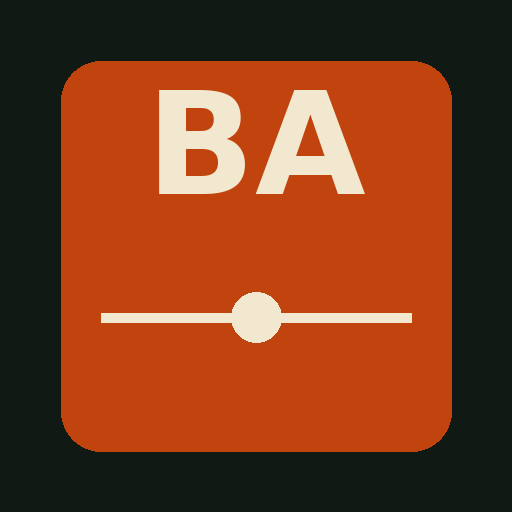
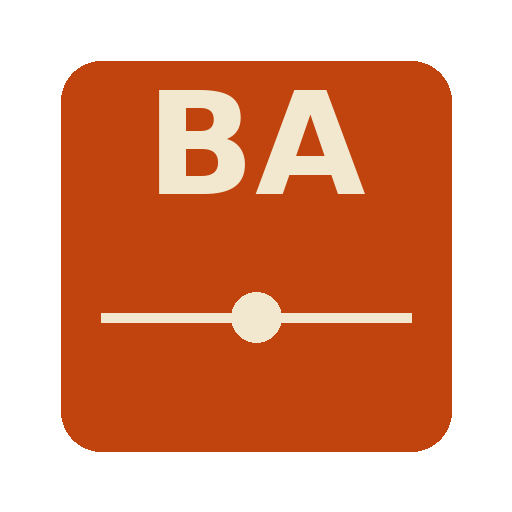
Add files via upload

diff --git a/service-worker.js b/service-worker.js
@@ -1,4 +1,4 @@
-const CACHE_NAME = "destinos-ba-v105";
+const CACHE_NAME = "destinos-ba-v106";
 const ASSETS = [
   "./",
   "./index.html",